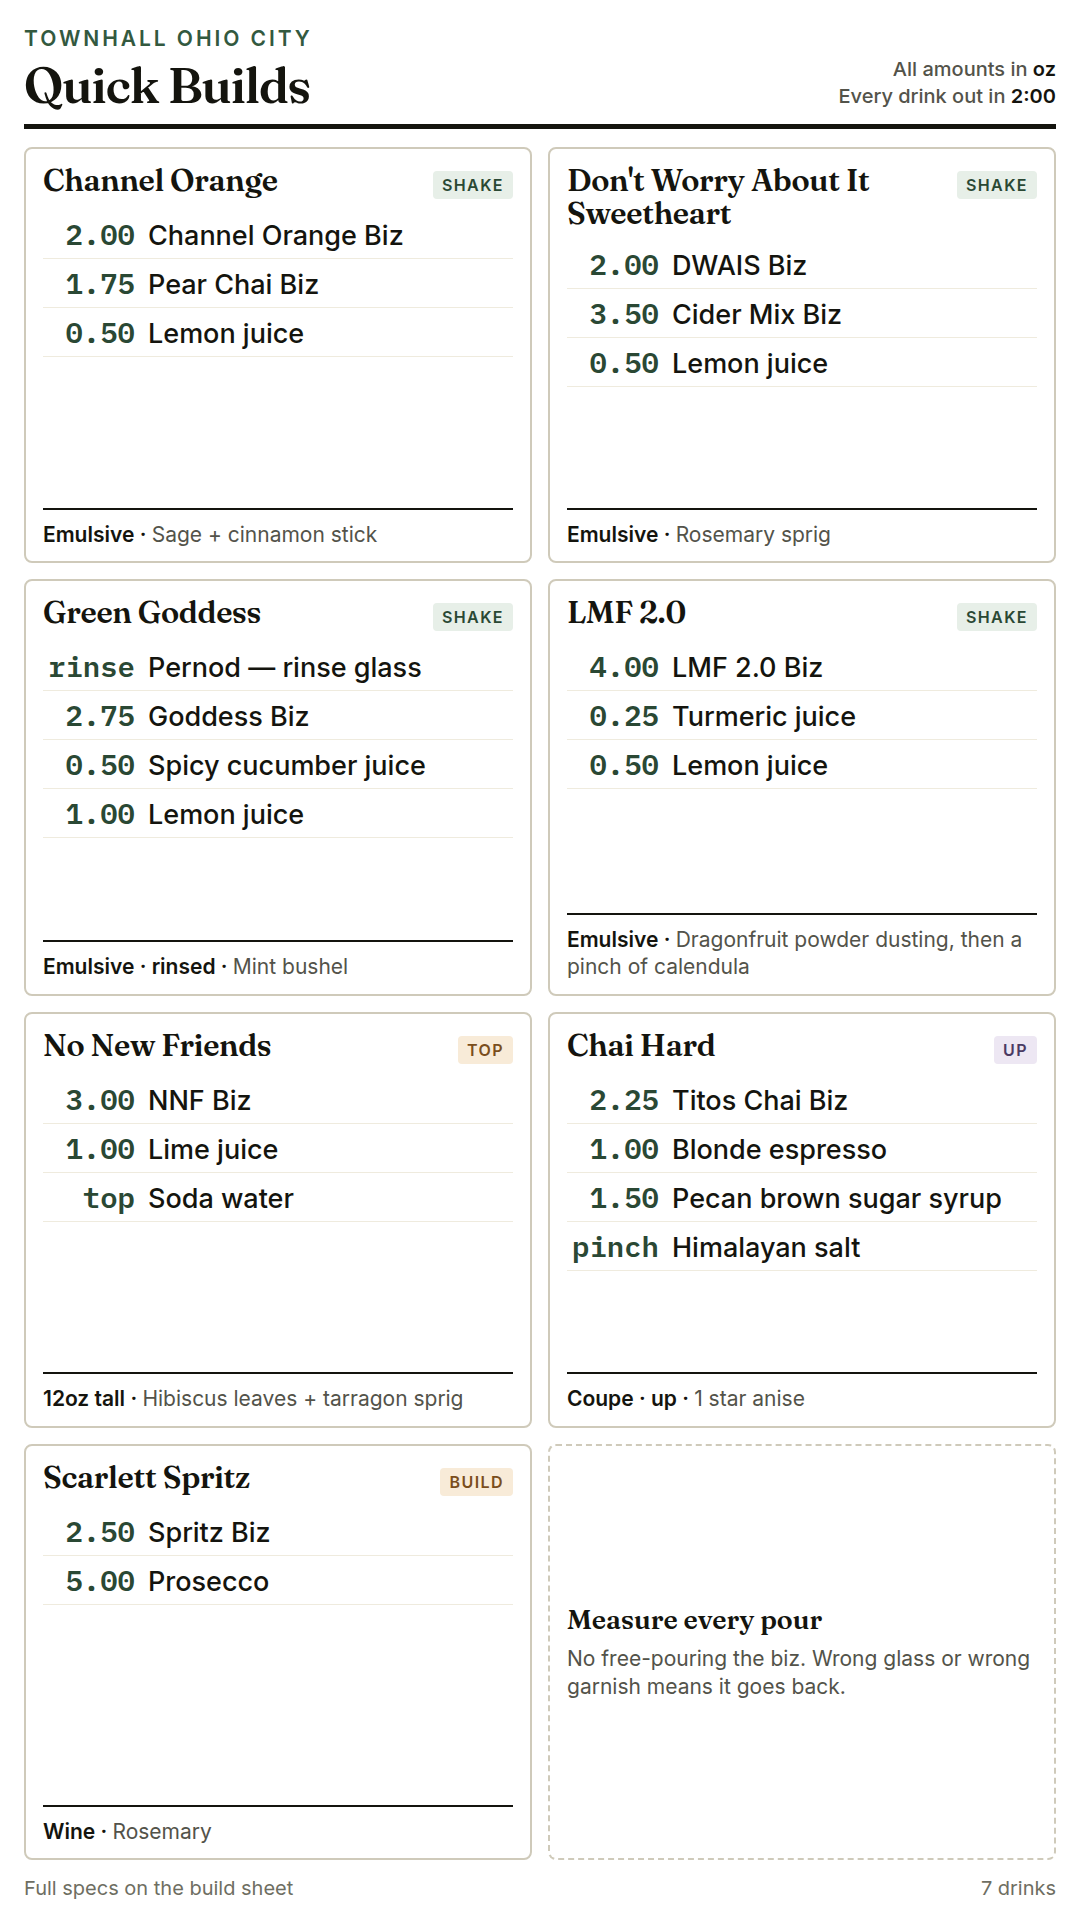
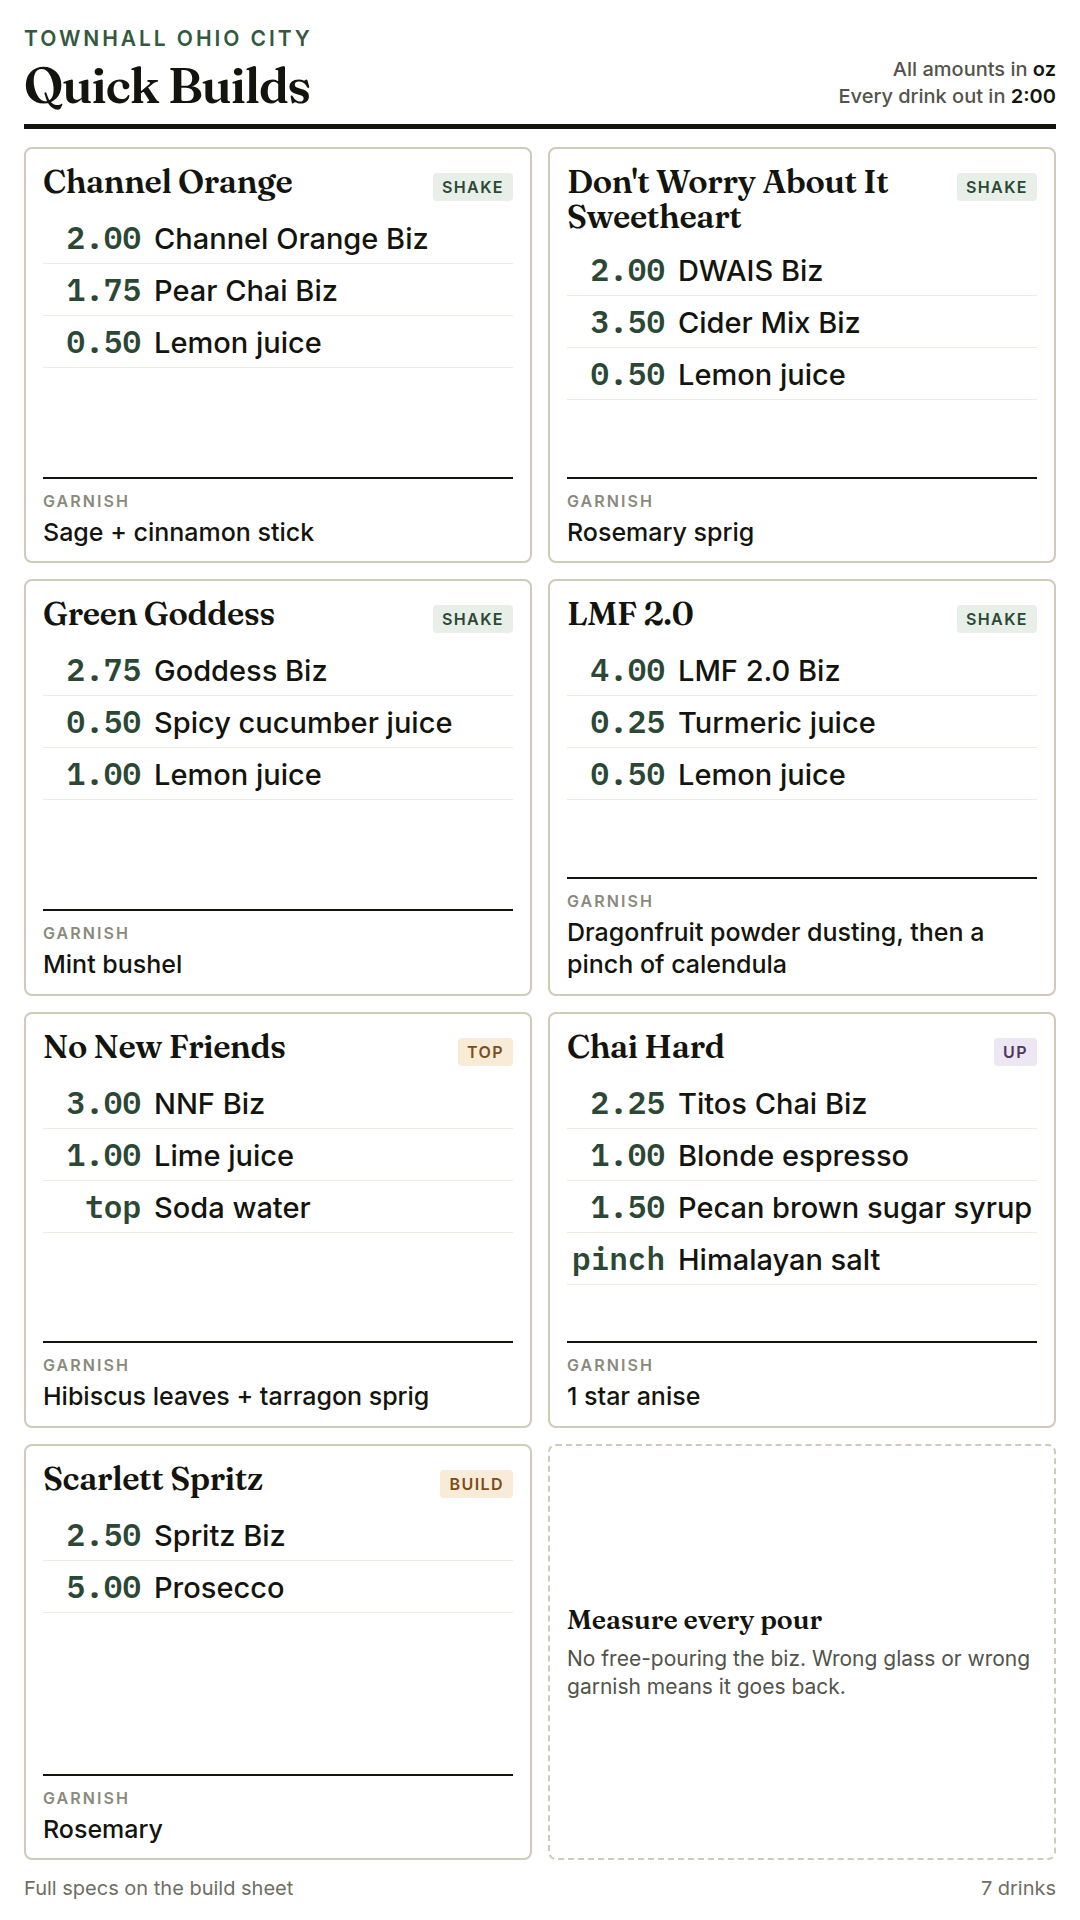
Quick builds: drop glassware, label the garnish
The handheld card now carries pours and garnish only. Glass comes off
entirely, and the Pernod rinse comes off the Green Goddess with it,
since that step is glass prep rather than something that goes in the tin
- a filter on the pour list rather than a change to the spec.

The garnish is the only finish line left, so it gets a label and more
weight, and the freed space goes into larger pour type rather than more
whitespace.

Glassware stays on the build sheets and the certification, where the
Short North rocks and Ohio City emulsive split still matters.

Claude-Session: https://claude.ai/code/session_01QY9qUK7vq8vNVAiUiaKao6

diff --git a/build/make_quickbuilds.py b/build/make_quickbuilds.py
@@ -11,14 +11,6 @@ from make_certification import LOCATIONS, resolve
 
 W, H = 1080, 1920
 
-# Short labels: a handheld has no room for "Coupe / martini — served up".
-GLASS_SHORT = {
-    'Rocks': 'Rocks', 'Emulsive': 'Emulsive',
-    'Rocks — Pernod-rinsed': 'Rocks · rinsed',
-    'Emulsive — Pernod-rinsed': 'Emulsive · rinsed',
-    'Coupe / martini': 'Coupe · up', 'Martini coupe': 'Coupe · up',
-    '12 oz tall': '12oz tall', 'Wine': 'Wine',
-}
 METHOD = {'Scarlett Spritz': 'BUILD', 'Chai Hard': 'UP', 'Espresso Martini': 'UP',
           'No New Friends': 'TOP'}
 
@@ -26,21 +18,22 @@ def esc(t): return html.escape(t, quote=False)
 
 def short_ing(s):
     s = s.split('—')[0].strip()
-    return {'Liquor of choice': 'Liquor — ask guest',
-            'Pernod': 'Pernod — rinse glass'}.get(s, s)
+    return {'Liquor of choice': 'Liquor — ask guest'}.get(s, s)
+
+def pours_for(d):
+    """Pours as the handheld shows them: no glass-prep steps."""
+    return [(a, b) for a, b in d['pours'] if a != 'rinse']
 
 def card(d, loc):
     rows = ''.join(
         '<div class="r"><span class="a">%s</span><span class="i">%s</span></div>'
-        % (esc(a), esc(short_ing(b))) for a, b in d['pours'])
-    glass = d['glass'].format(rocks=loc['rocks'])
+        % (esc(a), esc(short_ing(b))) for a, b in pours_for(d))
     tag = METHOD.get(d['name'], 'SHAKE')
     return ('<div class="c">'
             '<div class="h"><span class="n">%s</span><span class="t t-%s">%s</span></div>'
             '%s'
-            '<div class="f"><b>%s</b>%s</div>'
-            '</div>' % (esc(d['name']), tag.lower(), tag, rows,
-                        esc(GLASS_SHORT.get(glass, glass)), esc(d['garnish'])))
+            '<div class="f"><span class="fl">Garnish</span>%s</div>'
+            '</div>' % (esc(d['name']), tag.lower(), tag, rows, esc(d['garnish'])))
 
 CSS = """
  *{box-sizing:border-box;margin:0;padding:0}
@@ -60,7 +53,7 @@ CSS = """
  .c{border:2px solid #CFCABA;border-radius:8px;padding:15px 17px 13px;
     display:flex;flex-direction:column}
  .h{display:flex;align-items:baseline;gap:10px;margin-bottom:11px}
- .n{font-family:'Fraunces',Georgia,serif;font-size:31px;font-weight:600;
+ .n{font-family:'Fraunces',Georgia,serif;font-size:33px;font-weight:600;
     line-height:1.05;letter-spacing:-.01em;flex:1}
  .t{flex:none;font-size:16px;font-weight:600;letter-spacing:.09em;
     padding:4px 9px;border-radius:4px;background:#E7EFE8;color:#2A4834}
@@ -69,13 +62,13 @@ CSS = """
  .r{display:flex;gap:13px;align-items:baseline;padding:5px 0;
     border-bottom:1px solid #EFEBDE}
  .r:last-of-type{border-bottom:none}
- .a{flex:none;width:92px;text-align:right;font-family:'IBM Plex Mono',monospace;
-    font-size:29px;font-weight:600;color:#2A4834;font-variant-numeric:tabular-nums}
- .i{font-size:27px;font-weight:500;line-height:1.2}
- .f{margin-top:auto;padding-top:11px;border-top:2px solid #14140E;
-    font-size:21px;color:#53534A;line-height:1.3}
- .f b{color:#14140E;font-weight:600}
- .f b::after{content:' · '}
+ .a{flex:none;width:98px;text-align:right;font-family:'IBM Plex Mono',monospace;
+    font-size:31px;font-weight:600;color:#2A4834;font-variant-numeric:tabular-nums}
+ .i{font-size:29px;font-weight:500;line-height:1.2}
+ .f{margin-top:auto;padding-top:12px;border-top:2px solid #14140E;
+    font-size:25px;font-weight:500;color:#14140E;line-height:1.3}
+ .fl{display:block;font-size:16px;font-weight:600;letter-spacing:.13em;
+     text-transform:uppercase;color:#8A8A7C;margin-bottom:4px}
  .note{border:2px dashed #CFCABA;border-radius:8px;padding:17px;
        display:flex;flex-direction:column;justify-content:center;gap:9px}
  .note b{font-family:'Fraunces',Georgia,serif;font-size:27px;font-weight:600}
